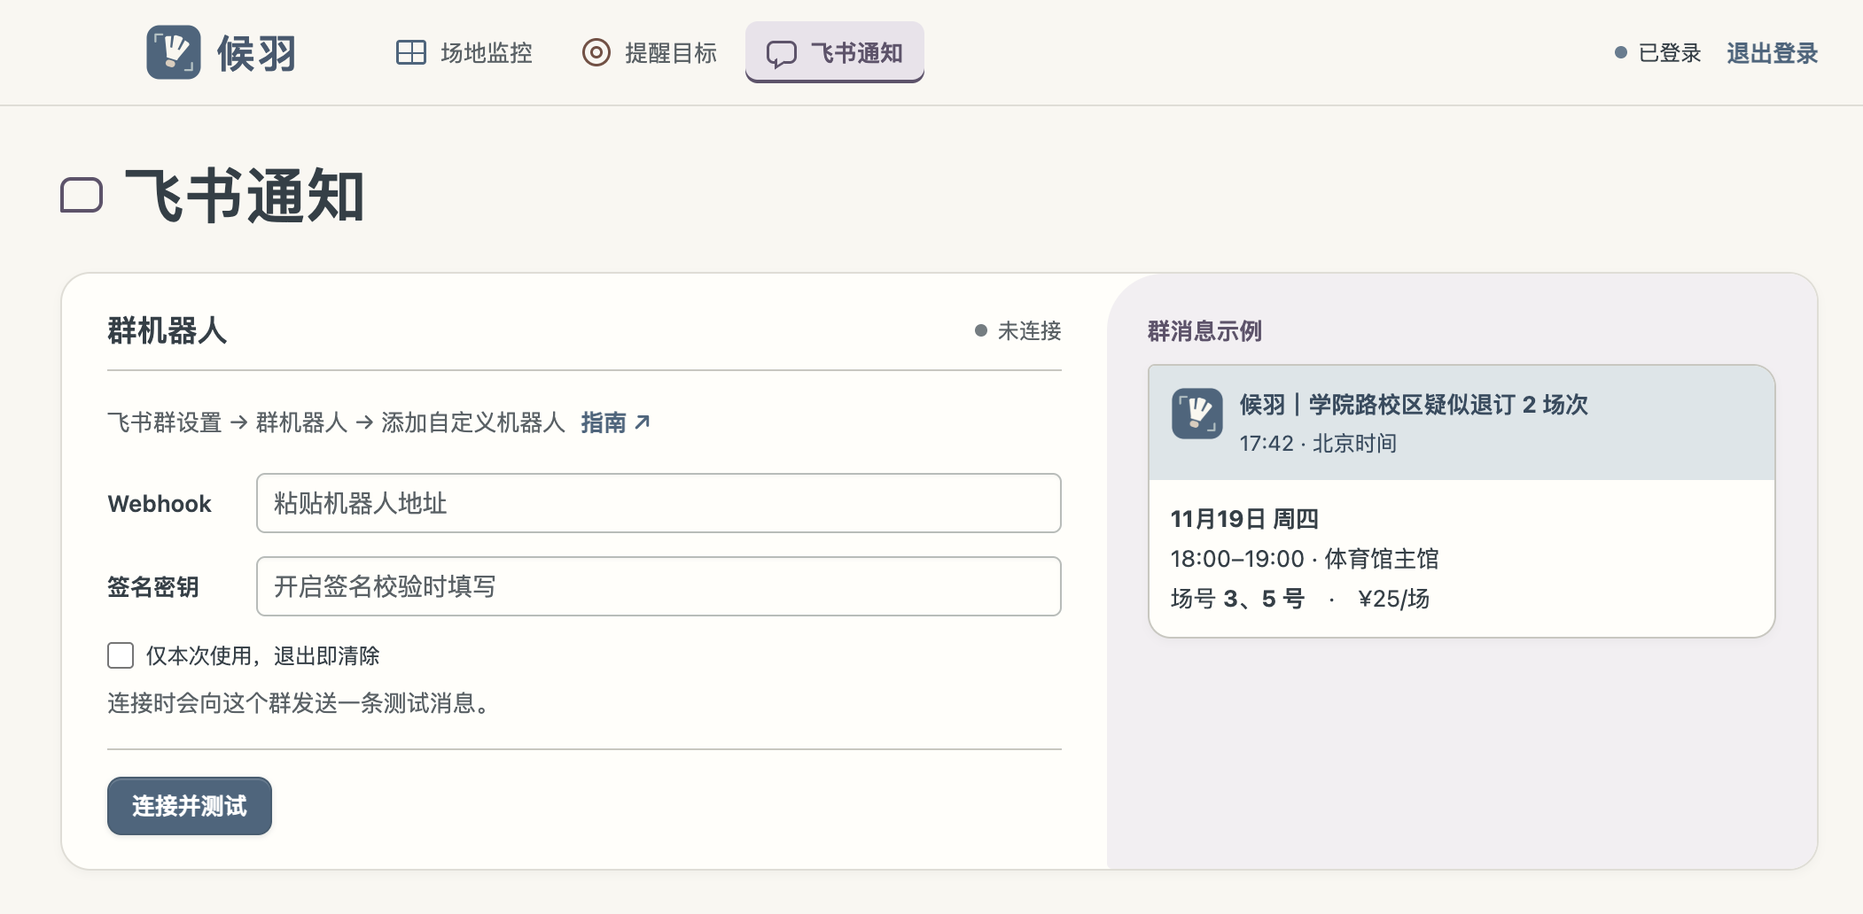
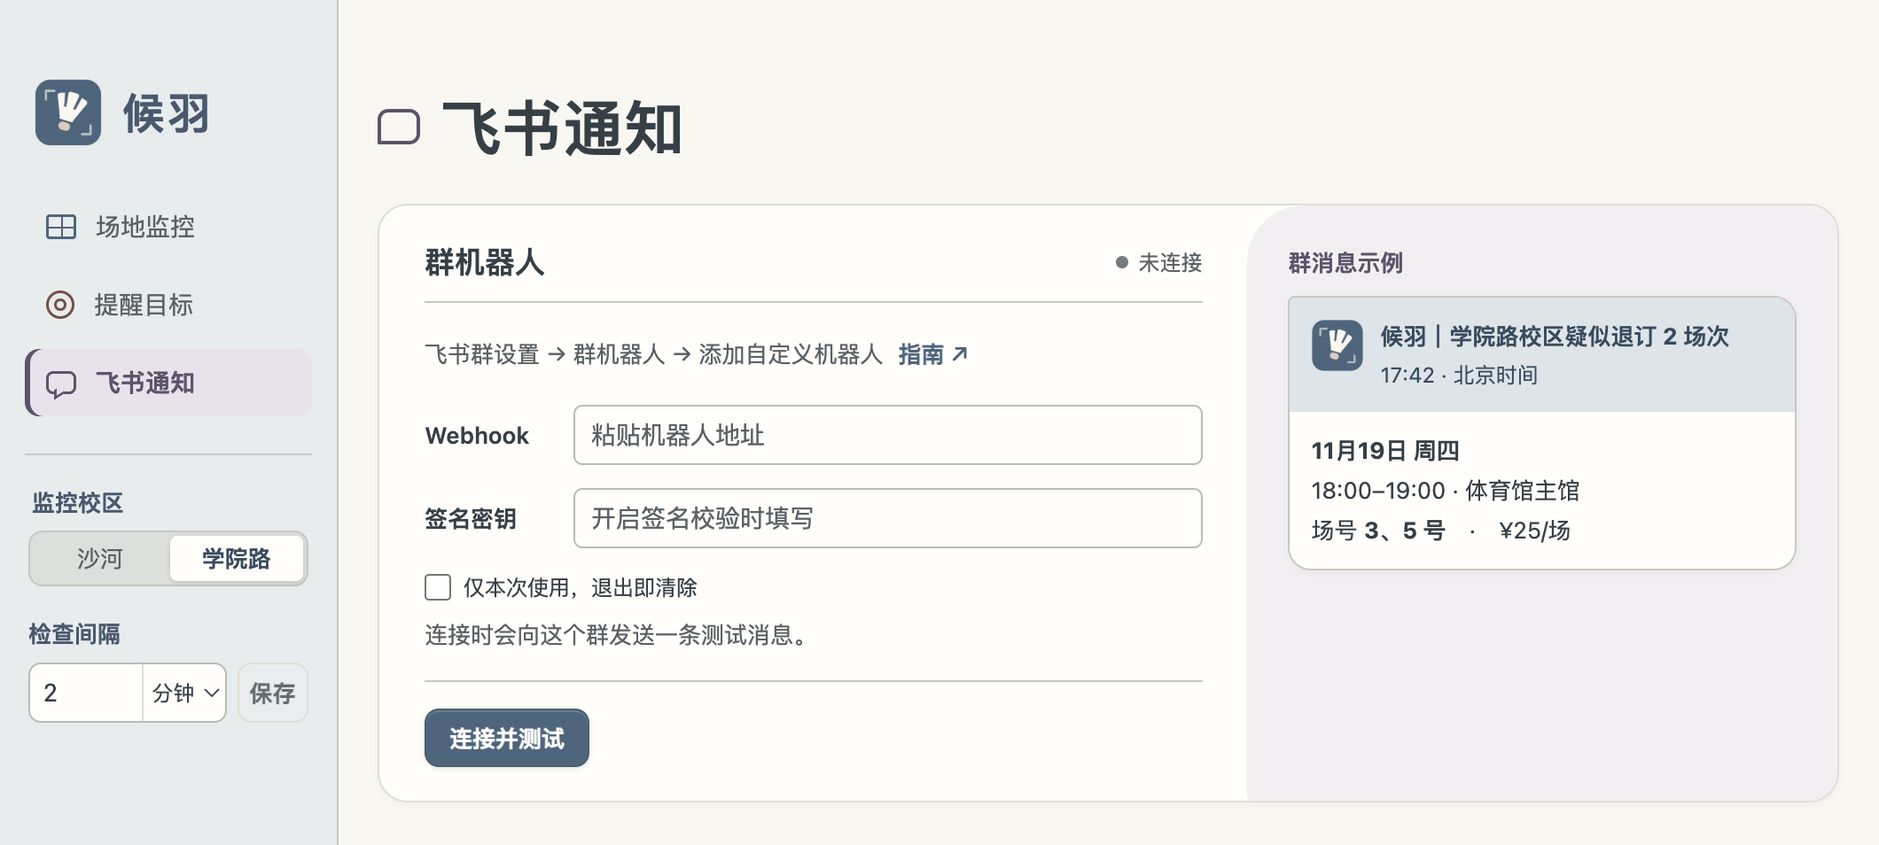
Release Houyu 2.0.1 with a vertical monitoring layout

diff --git a/src/ui/styles.css b/src/ui/styles.css
@@ -4,6 +4,7 @@
   color: var(--ink);
   background: var(--surface);
   --bar-height: 0px;
+  --rail-width: clamp(174px, 18vw, 204px);
   --ink: light-dark(#333f47, #e5e5dc);
   --blue: light-dark(#49667e, #b7cedd);
   --navy: light-dark(#445a70, #bdd0de);
@@ -14,7 +15,7 @@
   --sheet: light-dark(#fffefa, #2d3335);
   --tools-surface: light-dark(#eeefea, #303839);
   --sheet-shadow: 0 2px 5px light-dark(#39443f0b, #10131424);
-  --rail: var(--surface);
+  --rail: light-dark(#e8eced, #252e33);
   --clay-ink: light-dark(#784f43, #e6c2ae);
   --clay-paper: light-dark(#efe3da, #443a35);
   --plum-ink: light-dark(#5f536c, #d8c9e2);
@@ -43,33 +44,33 @@
 [hidden] { display: none !important; }
 body, h1, h2, p, dl, dd { margin: 0; }
 :root:is([data-platform=darwin], [data-platform=win32]) { --bar-height: 36px; }
-.window-bar { grid-area: 1 / 1; background: var(--rail); app-region: drag; user-select: none; }
+.window-bar {
+  grid-area: 1 / 1 / 2 / -1; app-region: drag; user-select: none;
+  background: linear-gradient(90deg, var(--rail) calc(var(--rail-width) - 1px), var(--line) calc(var(--rail-width) - 1px), var(--line) var(--rail-width), var(--surface) var(--rail-width));
+}
+.compact-bar { display: none; }
 button, input, select { font: inherit; color: inherit; }
 button:not(:disabled), .choice:has(input:not(:disabled)) { cursor: pointer; }
 :focus-visible { outline: 2px solid var(--focus); outline-offset: 3px; }
 h1:focus { outline: none; }
 h1 { font-size: clamp(26px, 3vw, 34px); letter-spacing: .01em; line-height: 1.3; font-weight: 700; }
 h2 { font-size: 17px; line-height: 1.4; font-weight: 650; }
-.shell { display: grid; grid-template: var(--bar-height) auto minmax(0, 1fr) / minmax(0, 1fr); height: 100vh; }
+.shell { display: grid; grid-template: var(--bar-height) minmax(0,1fr) / var(--rail-width) minmax(0,1fr); height: 100vh; }
 .rail {
-  grid-area: 1 / 1 / 3; display: flex; align-items: center; gap: clamp(20px, 4vw, 58px);
-  min-width: 0; min-height: 60px; padding: 5px clamp(18px, 3.2vw, 46px); border-bottom: 1px solid var(--light-line);
-  background: var(--rail); app-region: drag; user-select: none;
+  grid-area: 2 / 1; display: flex; flex-direction: column; min-height: 0; min-width: 0; overflow-y: auto;
+  padding: max(8px, calc(34px - var(--bar-height))) 14px 17px; background: var(--rail); border-right: 1px solid var(--line);
 }
-:root[data-platform=darwin] .rail { padding-left: 82px; }
-:root[data-platform=win32] .rail { padding-right: max(148px, calc(100vw - env(titlebar-area-width, 100vw) + 8px)); }
 .brand, .nav, .account-state, .status, .button { display: inline-flex; align-items: center; }
-.brand { gap: 8px; flex: none; }
-.brand img { display: block; width: 32px; height: 32px; }
-.brand strong { color: var(--navy); font-size: 22px; font-weight: 650; letter-spacing: .07em; }
-.navigation { display: flex; align-items: center; gap: 4px; }
-.navigation, .account { app-region: no-drag; }
+.brand { gap: 11px; margin: 0 5px 26px; flex: none; user-select: none; }
+.brand img { display: block; width: 39px; height: 39px; }
+.brand strong { color: var(--navy); font-size: 24px; font-weight: 650; letter-spacing: .07em; }
+.navigation { display: grid; gap: 6px; }
 .nav {
-  gap: 8px; min-height: 35px; padding: 5px 12px; border: 0; border-radius: 7px;
-  background: transparent; color: var(--muted); font-size: 13px; white-space: nowrap;
+  gap: 11px; min-height: 38px; width: 100%; padding: 6px 12px; border: 0; border-radius: 8px; text-align: left;
+  background: transparent; color: var(--muted); font-size: 14px; white-space: nowrap;
 }
 .nav:hover { background: var(--neutral-hover); }
-.nav.current { color: var(--selected-ink); background: var(--selected); font-weight: 660; box-shadow: inset 0 -2px var(--blue); }
+.nav.current { color: var(--selected-ink); background: var(--selected); font-weight: 660; box-shadow: inset 3px 0 var(--blue); }
 .nav-icon { display: inline-block; position: relative; flex: none; width: 17px; height: 14px; border: 1.5px solid currentColor; }
 .court-icon { border-radius: 2px; }
 .court-icon::before, .court-icon::after, .target-icon::before, .chat-icon::after { content: ''; position: absolute; }
@@ -82,17 +83,17 @@ h2 { font-size: 17px; line-height: 1.4; font-weight: 650; }
 .nav .court-icon { color: var(--blue); }
 .nav .target-icon { color: var(--clay-ink); }
 .nav .chat-icon { color: var(--plum-ink); }
-.nav[data-page=target].current { background: var(--clay-paper); color: var(--clay-ink); box-shadow: inset 0 -2px currentColor; }
-.nav[data-page=feishu].current { background: var(--plum-paper); color: var(--plum-ink); box-shadow: inset 0 -2px currentColor; }
+.nav[data-page=target].current { background: var(--clay-paper); color: var(--clay-ink); box-shadow: inset 3px 0 currentColor; }
+.nav[data-page=feishu].current { background: var(--plum-paper); color: var(--plum-ink); box-shadow: inset 3px 0 currentColor; }
 .nav.current .chat-icon::after { background: var(--plum-paper); }
-.rail-foot { margin-left: auto; }
-.account { display: flex; align-items: center; gap: 14px; font-size: 12px; white-space: nowrap; }
+.rail-foot { margin-top: auto; padding-top: 24px; }
+.account { display: flex; flex-wrap: wrap; align-items: center; justify-content: space-between; gap: 4px 7px; border-top: 1px solid var(--line); padding: 12px 2px 0; font-size: 12px; }
 .account-state, .status { gap: 6px; }
 .dot, #push-status::before { display: inline-block; width: 7px; height: 7px; flex: none; border-radius: 50%; background: #737d82; }
 .dot[data-tone=good], [data-tone=good] .dot, #push-status[data-tone=good]::before { background: #647d91; }
 .dot[data-tone=warn], [data-tone=warn] .dot, #push-status[data-tone=warn]::before { background: #a26354; }
-.workspace { grid-area: 3 / 1; overflow: auto; scroll-padding: 12px; width: 100%; min-width: 0; }
-.workspace > section { width: min(100%, 1280px); margin: 0 auto; padding: clamp(16px, 2.1vw, 28px) clamp(16px, 3.2vw, 46px) 30px; }
+.workspace { grid-area: 2 / 2; overflow: auto; scroll-padding: 12px; width: 100%; min-width: 0; }
+.workspace > section { width: min(100%, 1280px); margin: 0 auto; padding: max(8px, calc(34px - var(--bar-height))) clamp(16px, 2.1vw, 30px) 26px; }
 .page-head { display: flex; align-items: center; min-height: 55px; margin-bottom: 16px; }
 .page-head > div { display: flex; align-items: baseline; gap: 15px; }
 .page-head h1 { font-weight: 650; font-size: clamp(27px, 3.2vw, 36px); }
@@ -218,15 +219,11 @@ tbody .new-day > *, .date-cell { border-top: 1px solid var(--line); }
 .empty { display: grid; align-content: center; justify-items: start; min-height: 96px; padding: 15px 3px; border-block: 1px solid var(--line); }
 .empty strong { font-size: 15px; font-weight: 560; }
 .empty p { margin-top: 4px; color: var(--muted); font-size: 13px; }
-.inspector { padding: 9px clamp(12px, 2vw, 28px); border-top: 1px solid var(--light-line); border-radius: 0 0 16px 16px; background: var(--tools-surface); }
-.controls { display: flex; align-items: center; flex-wrap: wrap; gap: 8px clamp(17px, 3.5vw, 50px); }
-.controls fieldset, #interval-form { display: flex; align-items: center; gap: 10px; }
-.controls legend { float: left; }
-.controls .campus-options { margin: 0; min-width: 142px; }
-.controls .interval-entry { margin: 0; width: 169px; }
+.controls { display: grid; flex: none; gap: 16px; margin-top: 21px; padding: 17px 2px 0; border-top: 1px solid var(--line); }
+.controls legend, .controls label[for=interval] { color: var(--navy); }
 fieldset { margin: 0; padding: 0; min-width: 0; border: 0; }
 legend, #interval-form label { font-size: 13px; font-weight: 650; }
-.campus-options { display: flex; gap: 2px; background: var(--neutral-panel); border: 1px solid var(--line); border-radius: 6px; padding: 2px; margin-top: 6px; }
+.campus-options { display: flex; gap: 2px; background: color-mix(in srgb, var(--rail) 65%, var(--line)); border: 1px solid var(--line); border-radius: 8px; padding: 2px; margin-top: 6px; }
 .choice { position: relative; flex: 1; text-align: center; }
 .choice input { position: absolute; inset: 0; width: 100%; height: 100%; margin: 0; opacity: 0; }
 .choice span { display: block; padding: 3px 4px; font-size: 13px; border-radius: 4px; color: var(--muted); }
@@ -245,7 +242,7 @@ input::placeholder { color: var(--muted); }
 .unit-field input[type=number] { width: 0; flex: 1; min-height: 32px; padding: 3px 4px 3px 7px; border: 0; border-radius: 6px 0 0 6px; box-shadow: none; background: transparent; }
 .unit-field input::-webkit-inner-spin-button { display: none; }
 .unit-field select { min-height: 32px; max-width: 52%; border: 0; border-left: 1px solid var(--light-line); padding: 2px 1px; border-radius: 0 6px 6px 0; font-size: 12px; background: transparent; cursor: pointer; }
-.interval-entry .button { padding-inline: 9px; }
+.interval-entry .button { padding-inline: 6px; }
 .split-sheet { display: grid; grid-template-columns: minmax(0, 1.25fr) minmax(245px, .85fr); align-items: stretch; }
 #target-form, .connection-settings { min-width: 0; padding: 19px clamp(16px, 2.4vw, 34px); }
 .sheet-heading, .connection-head { min-height: 36px; padding-bottom: 9px; border-bottom: 1px solid var(--line); }
@@ -291,24 +288,38 @@ input::placeholder { color: var(--muted); }
 .form-error, .warning, .feedback { margin: 9px 0; white-space: pre-line; font-size: 13px; }
 .form-error, .warning, .feedback[data-tone=warn] { color: var(--error); }
 .toast { position: fixed; z-index: 2; bottom: 18px; right: 18px; max-width: min(430px, 85vw); padding: 9px 14px; border-radius: 6px; background: #3f5361; color: white; font-size: 13px; }
-@media (max-width: 840px) {
-  .rail { gap: 16px; padding-inline: 15px; }
-  .navigation { gap: 1px; }
-  .nav { padding-inline: 8px; }
-  .monitor-head { grid-template-columns: minmax(0, .95fr) minmax(0, 1fr); }
-  .check-times { column-gap: 12px; }
+@media (max-width: 930px) {
+  :root { --rail-width: 160px; }
+  .rail { padding-inline: 9px; }
+  .nav { padding-inline: 10px; }
+  .workspace > section { padding-inline: 14px; }
+  .monitor-head { display: block; }
+  .venue-summary { min-height: 87px; padding-block: 11px; border-radius: 16px 16px 22px 4px; }
+  .monitor-toolbar { display: flex; flex-wrap: wrap; gap: 6px 12px; padding: 9px 12px; }
+  .monitor-toolbar #monitor-action { margin-left: auto; }
+  .monitor-toolbar #monitor-state { font-size: 12px; }
+  .check-times { gap: 3px 12px; }
   .target-caption { display: block; margin: 2px 0 0; }
   .split-sheet { grid-template-columns: minmax(0, 1fr); }
   .message-preview, .saved-strip { padding: 18px; border-radius: 20px 0 16px 16px; }
   .message-card { max-width: 430px; }
 }
 @media (max-width: 660px) {
-  .rail, :root:is([data-platform=darwin], [data-platform=win32]) .rail { grid-area: 2 / 1; flex-wrap: wrap; padding: 6px 12px 9px; gap: 5px 9px; }
-  .rail { app-region: none; }
-  .brand img { width: 25px; height: 25px; }
-  .brand strong { font-size: 18px; }
-  .navigation { order: 1; flex-basis: 100%; justify-content: space-between; }
-  .nav { flex: 1; justify-content: center; }
+  .shell { grid-template: var(--bar-height) auto minmax(0,1fr) / minmax(0,1fr); }
+  .window-bar { background: var(--rail); }
+  .compact-bar { grid-area: 2 / 1; display: flex; align-items: center; justify-content: space-between; padding: 4px 12px; border-bottom: 1px solid var(--line); background: var(--rail); color: var(--selected-ink); }
+  .compact-bar strong { font-size: 17px; letter-spacing: .06em; }
+  #rail-toggle { display: flex; align-items: center; gap: 7px; min-height: 32px; border: 1px solid var(--control-border); border-radius: 6px; padding: 2px 8px; color: var(--selected-ink); background: var(--input); font-size: 13px; }
+  #rail-toggle[aria-expanded=true] { background: var(--selected); }
+  .menu-icon { width: 12px; height: 9px; border-block: 1.5px solid; position: relative; }
+  .menu-icon::after { content: ''; position: absolute; top: 50%; left: 0; width: 100%; border-top: 1px solid; }
+  .rail, .workspace { grid-area: 3 / 1; }
+  .rail { display: none; z-index: 1; padding: 12px; border-right: 0; }
+  .rail.open { display: flex; }
+  .rail .brand { display: none; }
+  .rail .navigation, .rail .controls, .rail .rail-foot { width: min(100%, 360px); align-self: center; }
+  .rail .controls { margin-top: 13px; padding-top: 11px; gap: 10px; }
+  .rail-foot { padding-top: 14px; }
   .workspace > section { padding: 12px 10px 22px; }
   .monitor-head { display: block; }
   .venue-summary { min-height: 75px; padding: 11px 16px; border-radius: 16px 16px 21px 4px; }
@@ -330,11 +341,7 @@ input::placeholder { color: var(--muted); }
   .venue-link { font-size: 12px; padding: 2px 3px; }
   .in-target .slot-time { padding-left: 6px; }
   .court-number { min-width: 24px; font-size: 13px; padding: 2px 3px; }
-  .inspector { padding: 10px; }
-  .controls { display: grid; grid-template-columns: minmax(83px, .82fr) minmax(132px, 1fr); gap: 9px; }
-  .controls fieldset, #interval-form { display: block; }
-  .controls legend { float: none; }
-  .controls .campus-options, .controls .interval-entry { min-width: 0; width: auto; margin-top: 4px; }
+
   .target-summary:not([data-state=all]) { display: grid; grid-template-columns: minmax(0,1fr) auto; gap: 1px 8px; padding: 6px 8px; }
   .target-when { gap: 3px 7px; }
   #shortcut-scope { grid-area: 2 / 1; margin-left: 0; }
@@ -343,11 +350,11 @@ input::placeholder { color: var(--muted); }
 }
 .sr-only { position: absolute; width: 1px; height: 1px; padding: 0; margin: -1px; overflow: hidden; clip-path: inset(50%); white-space: nowrap; border: 0; }
 @media (pointer: coarse) {
-  .button, .quiet, .nav, .date-filter button, .choice span, input:not([type=radio], [type=checkbox]) { min-height: 44px; }
+  .button, .quiet, .nav, #rail-toggle, .date-filter button, .choice span, input:not([type=radio], [type=checkbox]) { min-height: 44px; }
   .choice span { display: grid; place-content: center; }
 }
 @media (forced-colors: active) {
   .court-number, .venue-link, .date-filter button[aria-pressed=true], .choice input:checked + span { border: 1px solid CanvasText; }
-  .in-target .slot-time, .target-summary:not([data-state=all]) { border-inline-start: 3px solid Highlight; }
+  .nav.current, .in-target .slot-time, .target-summary:not([data-state=all]) { border-inline-start: 3px solid Highlight; }
   :focus-visible, .choice input:focus-visible + span { outline: 2px solid Highlight; }
 }

diff --git a/src/ui/index.html b/src/ui/index.html
@@ -10,22 +10,44 @@
 <body>
   <div class="shell">
     <div class="window-bar" aria-hidden="true"></div>
-    <header class="rail">
+    <div class="compact-bar">
+      <strong>候羽</strong>
+      <button type="button" id="rail-toggle" aria-expanded="false" aria-controls="sidebar"><span class="menu-icon" aria-hidden="true"></span>导航与设置</button>
+    </div>
+    <aside class="rail" id="sidebar" aria-label="导航与监控设置">
       <div class="brand"><img src="icon.png" alt="" width="44" height="44"><strong>候羽</strong></div>
       <nav aria-label="应用页面" class="navigation">
         <button type="button" class="nav current" data-page="monitor" aria-current="page"><span class="nav-icon court-icon" aria-hidden="true"></span>场地监控</button>
         <button type="button" class="nav" data-page="target"><span class="nav-icon target-icon" aria-hidden="true"></span>提醒目标</button>
         <button type="button" class="nav" data-page="feishu"><span class="nav-icon chat-icon" aria-hidden="true"></span>飞书通知</button>
       </nav>
+      <section class="controls" aria-label="监控设置">
+        <fieldset id="campus-field"><legend>监控校区</legend>
+          <div class="campus-options">
+            <label class="choice"><input type="radio" name="campus" value="shahe" checked><span>沙河</span></label>
+            <label class="choice"><input type="radio" name="campus" value="xueyuanlu"><span>学院路</span></label>
+          </div>
+        </fieldset>
+        <form id="interval-form">
+          <label for="interval">检查间隔</label>
+          <div class="interval-entry">
+            <div class="unit-field">
+              <input type="number" id="interval" min="1" max="1440" step="1" value="2" inputmode="numeric" required>
+              <select id="interval-unit" aria-label="检查间隔单位"><option value="minutes">分钟</option><option value="seconds">秒</option></select>
+            </div>
+            <button class="button" type="submit" id="save-interval">保存</button>
+          </div>
+        </form>
+      </section>
       <div class="rail-foot">
         <section class="account" aria-label="北航账号">
           <p class="account-state"><i id="account-dot" class="dot" aria-hidden="true"></i><span id="account-state">尚未登录</span></p>
           <button id="account-action" class="quiet" type="button">登录北航</button>
         </section>
       </div>
-    </header>
+    </aside>
 
-    <main class="workspace">
+    <main class="workspace" id="workspace">
       <section id="page-monitor" aria-labelledby="selected-campus">
         <header class="monitor-head">
           <div class="venue-summary">
@@ -63,26 +85,6 @@
             </div>
             <div class="booking-links" id="booking-links" aria-label="北航官方预约入口"></div>
           </section>
-          <aside class="inspector" aria-label="监控设置">
-            <section class="controls">
-              <fieldset id="campus-field"><legend>监控校区</legend>
-                <div class="campus-options">
-                  <label class="choice"><input type="radio" name="campus" value="shahe" checked><span>沙河</span></label>
-                  <label class="choice"><input type="radio" name="campus" value="xueyuanlu"><span>学院路</span></label>
-                </div>
-              </fieldset>
-              <form id="interval-form">
-                <label for="interval">检查间隔</label>
-                <div class="interval-entry">
-                  <div class="unit-field">
-                    <input type="number" id="interval" min="1" max="1440" step="1" value="2" inputmode="numeric" required>
-                    <select id="interval-unit" aria-label="检查间隔单位"><option value="minutes">分钟</option><option value="seconds">秒</option></select>
-                  </div>
-                  <button class="button" type="submit" id="save-interval">保存</button>
-                </div>
-              </form>
-            </section>
-          </aside>
         </div>
       </section>
 

diff --git a/src/ui/renderer.js b/src/ui/renderer.js
@@ -63,7 +63,16 @@ function clearConnectionInputs() {
   get('feishu-secret').value = '';
 }
 
+const compactLayout = matchMedia('(max-width: 660px)');
+function setSidebar(open) {
+  const opened = compactLayout.matches && open;
+  get('rail-toggle').setAttribute('aria-expanded', String(opened));
+  get('sidebar').classList.toggle('open', opened);
+  get('workspace').inert = opened;
+}
+
 function showPage(page) {
+  setSidebar(false);
   if (page !== 'feishu') {
     clearConnectionInputs();
     replacingConnection = false;
@@ -458,6 +467,19 @@ function updateOptions(patch) {
 if (!app) {
   showToast('桌面服务未启动。请从应用程序重新打开。');
 } else {
+  const toggle = get('rail-toggle');
+  toggle.addEventListener('click', () => setSidebar(toggle.getAttribute('aria-expanded') !== 'true'));
+  document.addEventListener('keydown', event => {
+    if (event.key !== 'Escape' || !get('workspace').inert) return;
+    setSidebar(false);
+    toggle.focus();
+  });
+  compactLayout.addEventListener('change', () => {
+    const active = document.activeElement;
+    setSidebar(false);
+    if (compactLayout.matches && get('sidebar').contains(active)) toggle.focus();
+    else if (!compactLayout.matches && active === toggle) document.querySelector('.nav.current').focus();
+  });
   for (const nav of document.querySelectorAll('[data-page]')) nav.addEventListener('click', () => showPage(nav.dataset.page));
   get('account-action').addEventListener('click', () => act(() => current?.auth === 'signed-in' ? app.logOut() : app.login()));
   get('monitor-action').addEventListener('click', () => act(() => current?.running ? app.pause() : app.start()));

diff --git a/README.md b/README.md
@@ -4,15 +4,15 @@
 
 想打周五晚上的球，可以在候羽里选「学院路」「周五」「18:00–20:00」。候羽在主馆或训练馆看到符合条件的退订，就会把时段和场号发到飞书群。点消息底部的场馆名，去北航官网订场。
 
-## 下载 v2.0.0
+## 下载 v2.0.1
 
 | 电脑 | 下载 | 打开 |
 | --- | --- | --- |
-| <img src="docs/platforms/apple.svg" width="16" alt=""> Mac · macOS 13 及以上 | [Apple 芯片（M 系列）](https://github.com/squarezier/BUAA-Badminton-Court-Detector/releases/download/v2.0.0/Houyu-macOS-arm64.zip) · [Intel 芯片](https://github.com/squarezier/BUAA-Badminton-Court-Detector/releases/download/v2.0.0/Houyu-macOS-x64.zip) | 解压，打开「候羽」 |
-| <img src="docs/platforms/windows.svg" width="16" alt=""> Windows 10 / 11 | [Windows x64](https://github.com/squarezier/BUAA-Badminton-Court-Detector/releases/download/v2.0.0/Houyu-Windows-x64.zip) | 解压整个文件夹，打开 `Houyu.exe` |
-| <img src="docs/platforms/linux.svg" width="16" alt=""> Ubuntu 22.04 / 24.04 | [Linux amd64](https://github.com/squarezier/BUAA-Badminton-Court-Detector/releases/download/v2.0.0/Houyu-Linux-amd64.deb) | 安装 DEB，在应用菜单打开「候羽」 |
+| <img src="docs/platforms/apple.svg" width="16" alt=""> Mac · macOS 13 及以上 | [Apple 芯片（M 系列）](https://github.com/squarezier/BUAA-Badminton-Court-Detector/releases/download/v2.0.1/Houyu-macOS-arm64.zip) · [Intel 芯片](https://github.com/squarezier/BUAA-Badminton-Court-Detector/releases/download/v2.0.1/Houyu-macOS-x64.zip) | 解压，打开「候羽」 |
+| <img src="docs/platforms/windows.svg" width="16" alt=""> Windows 10 / 11 | [Windows x64](https://github.com/squarezier/BUAA-Badminton-Court-Detector/releases/download/v2.0.1/Houyu-Windows-x64.zip) | 解压整个文件夹，打开 `Houyu.exe` |
+| <img src="docs/platforms/linux.svg" width="16" alt=""> Ubuntu 22.04 / 24.04 | [Linux amd64](https://github.com/squarezier/BUAA-Badminton-Court-Detector/releases/download/v2.0.1/Houyu-Linux-amd64.deb) | 安装 DEB，在应用菜单打开「候羽」 |
 
-[版本说明](https://github.com/squarezier/BUAA-Badminton-Court-Detector/releases/tag/v2.0.0) · [SHA-256 校验文件](https://github.com/squarezier/BUAA-Badminton-Court-Detector/releases/download/v2.0.0/Houyu-SHA256SUMS.txt) · [源码包](https://github.com/squarezier/BUAA-Badminton-Court-Detector/releases/download/v2.0.0/Houyu-Source.zip)
+[版本说明](https://github.com/squarezier/BUAA-Badminton-Court-Detector/releases/tag/v2.0.1) · [SHA-256 校验文件](https://github.com/squarezier/BUAA-Badminton-Court-Detector/releases/download/v2.0.1/Houyu-SHA256SUMS.txt) · [源码包](https://github.com/squarezier/BUAA-Badminton-Court-Detector/releases/download/v2.0.1/Houyu-Source.zip)
 
 ## 使用手册
 
@@ -59,7 +59,9 @@
 
 ### 开始监控
 
-选 **学院路** 或 **沙河**，点 **开始监控**。默认看这个校区的所有时段和场号。只想等某天的一段时间，就在 **提醒目标** 里选日期、起止时间，点 **保存目标**。
+打开 **场地监控**，选 **学院路** 或 **沙河**，点 **开始监控**。想等周五晚上的球，就从左栏进入 **提醒目标**，选好日期、开始和结束时间，点 **保存目标**。同一校区里，落在这段时间内的所有场号都算。
+
+窗口较窄或界面放大时，左栏会收起。点顶部的 **导航与设置** 就能展开。
 
 <picture>
   <source media="(prefers-color-scheme: dark)" srcset="docs/monitor-dark.png">
